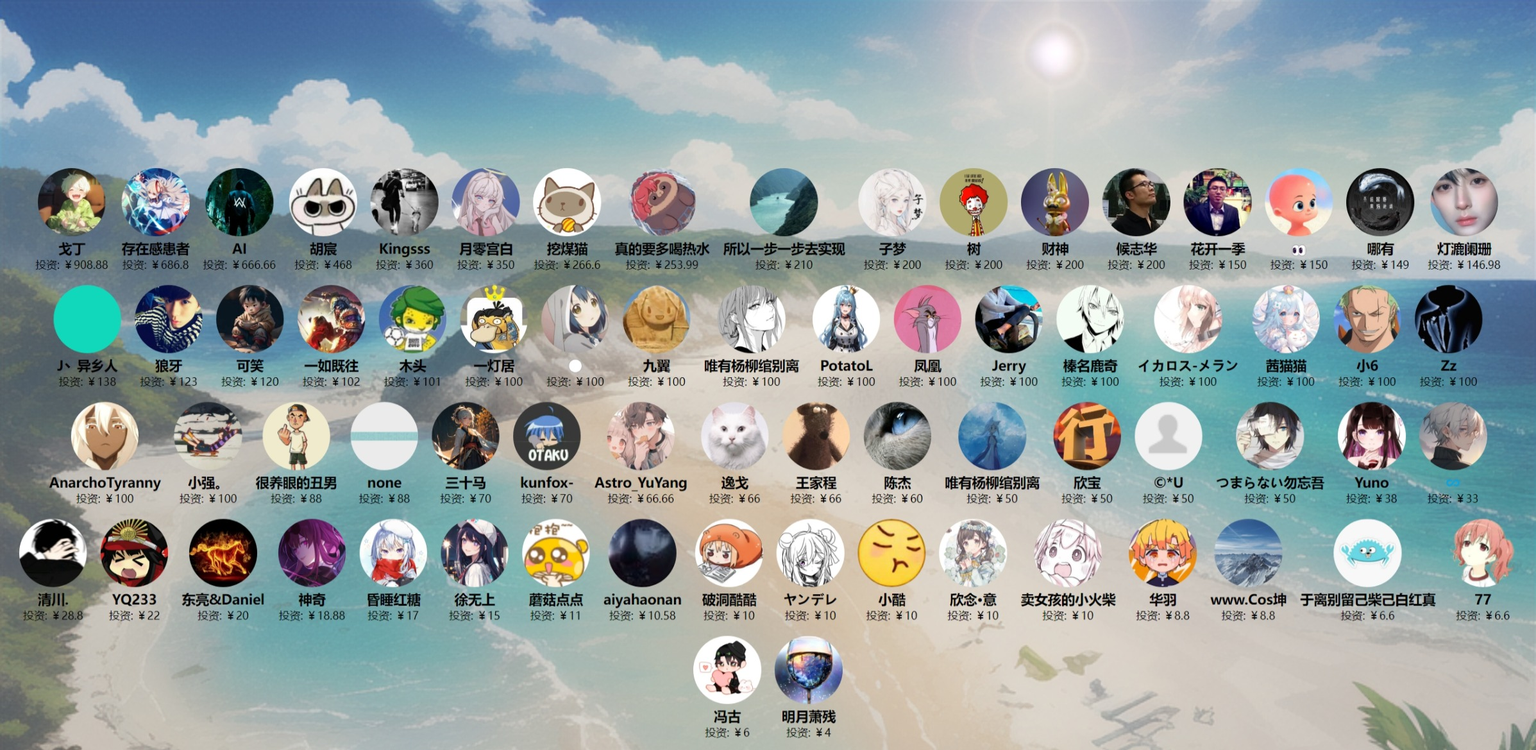
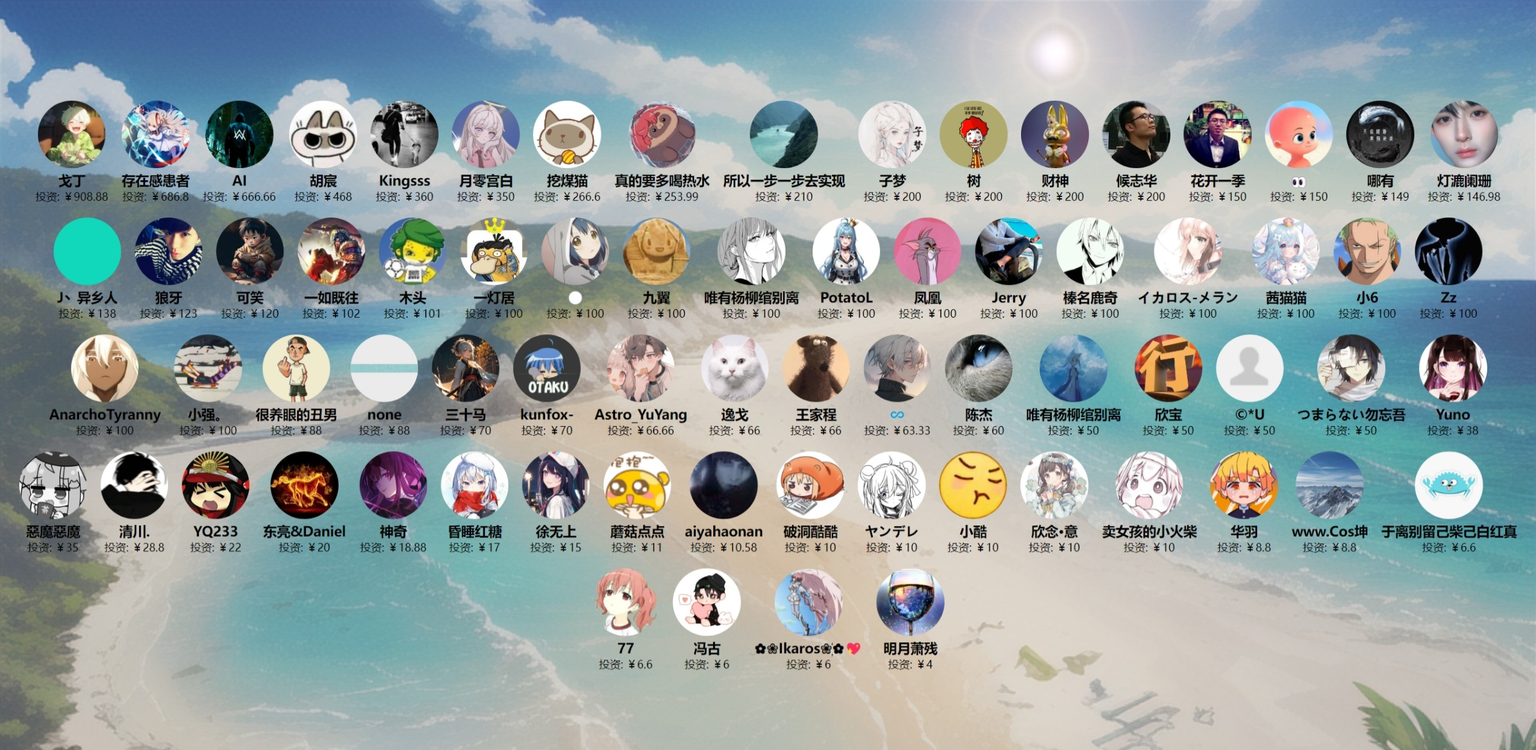
更新投资人

diff --git a/docs/投资人/index.html b/docs/投资人/index.html
@@ -18,7 +18,7 @@
             justify-content: center;
             gap: 20px;
             margin-top: 20px;
-            top: 200px;
+            top: 100px;
             position: relative;
         }
 
@@ -267,6 +267,11 @@
             amount: "￥66"
         },
         {
+            name: "♾",
+            avatar: "https://images.cnblogs.com/cnblogs_com/ikaros-521/2328032/o_231219144349_QQ%E5%9B%BE%E7%89%8720231219220916.jpg",
+            amount: "￥63.33"
+        },
+        {
             name: "陈杰",
             avatar: "https://images.cnblogs.com/cnblogs_com/ikaros-521/2328032/o_230719120711_QQ%E5%9B%BE%E7%89%8720230719200510.jpg",
             amount: "￥60"
@@ -297,9 +302,9 @@
             amount: "￥38"
         },
         {
-            name: "♾",
-            avatar: "https://images.cnblogs.com/cnblogs_com/ikaros-521/2328032/o_231219144349_QQ%E5%9B%BE%E7%89%8720231219220916.jpg",
-            amount: "￥33.33"
+            name: "惡魔惡魔",
+            avatar: "https://images.cnblogs.com/cnblogs_com/ikaros-521/2328032/o_231231143423_QQ%E5%9B%BE%E7%89%8720231231223147.jpg",
+            amount: "￥35"
         },
         {
             name: "清川.",
@@ -389,6 +394,11 @@
         {
             name: "冯古",
             avatar: "https://images.cnblogs.com/cnblogs_com/ikaros-521/2328032/o_230719074436_%E5%86%AF%E5%8F%A4.jpg",
+            amount: "￥6"
+        },
+        {
+            name: "✿❀Ikaros❀҉✿💖",
+            avatar: "https://images.cnblogs.com/cnblogs_com/ikaros-521/2328032/o_231231143423_image.jpeg",
             amount: "￥6"
         },
         {
